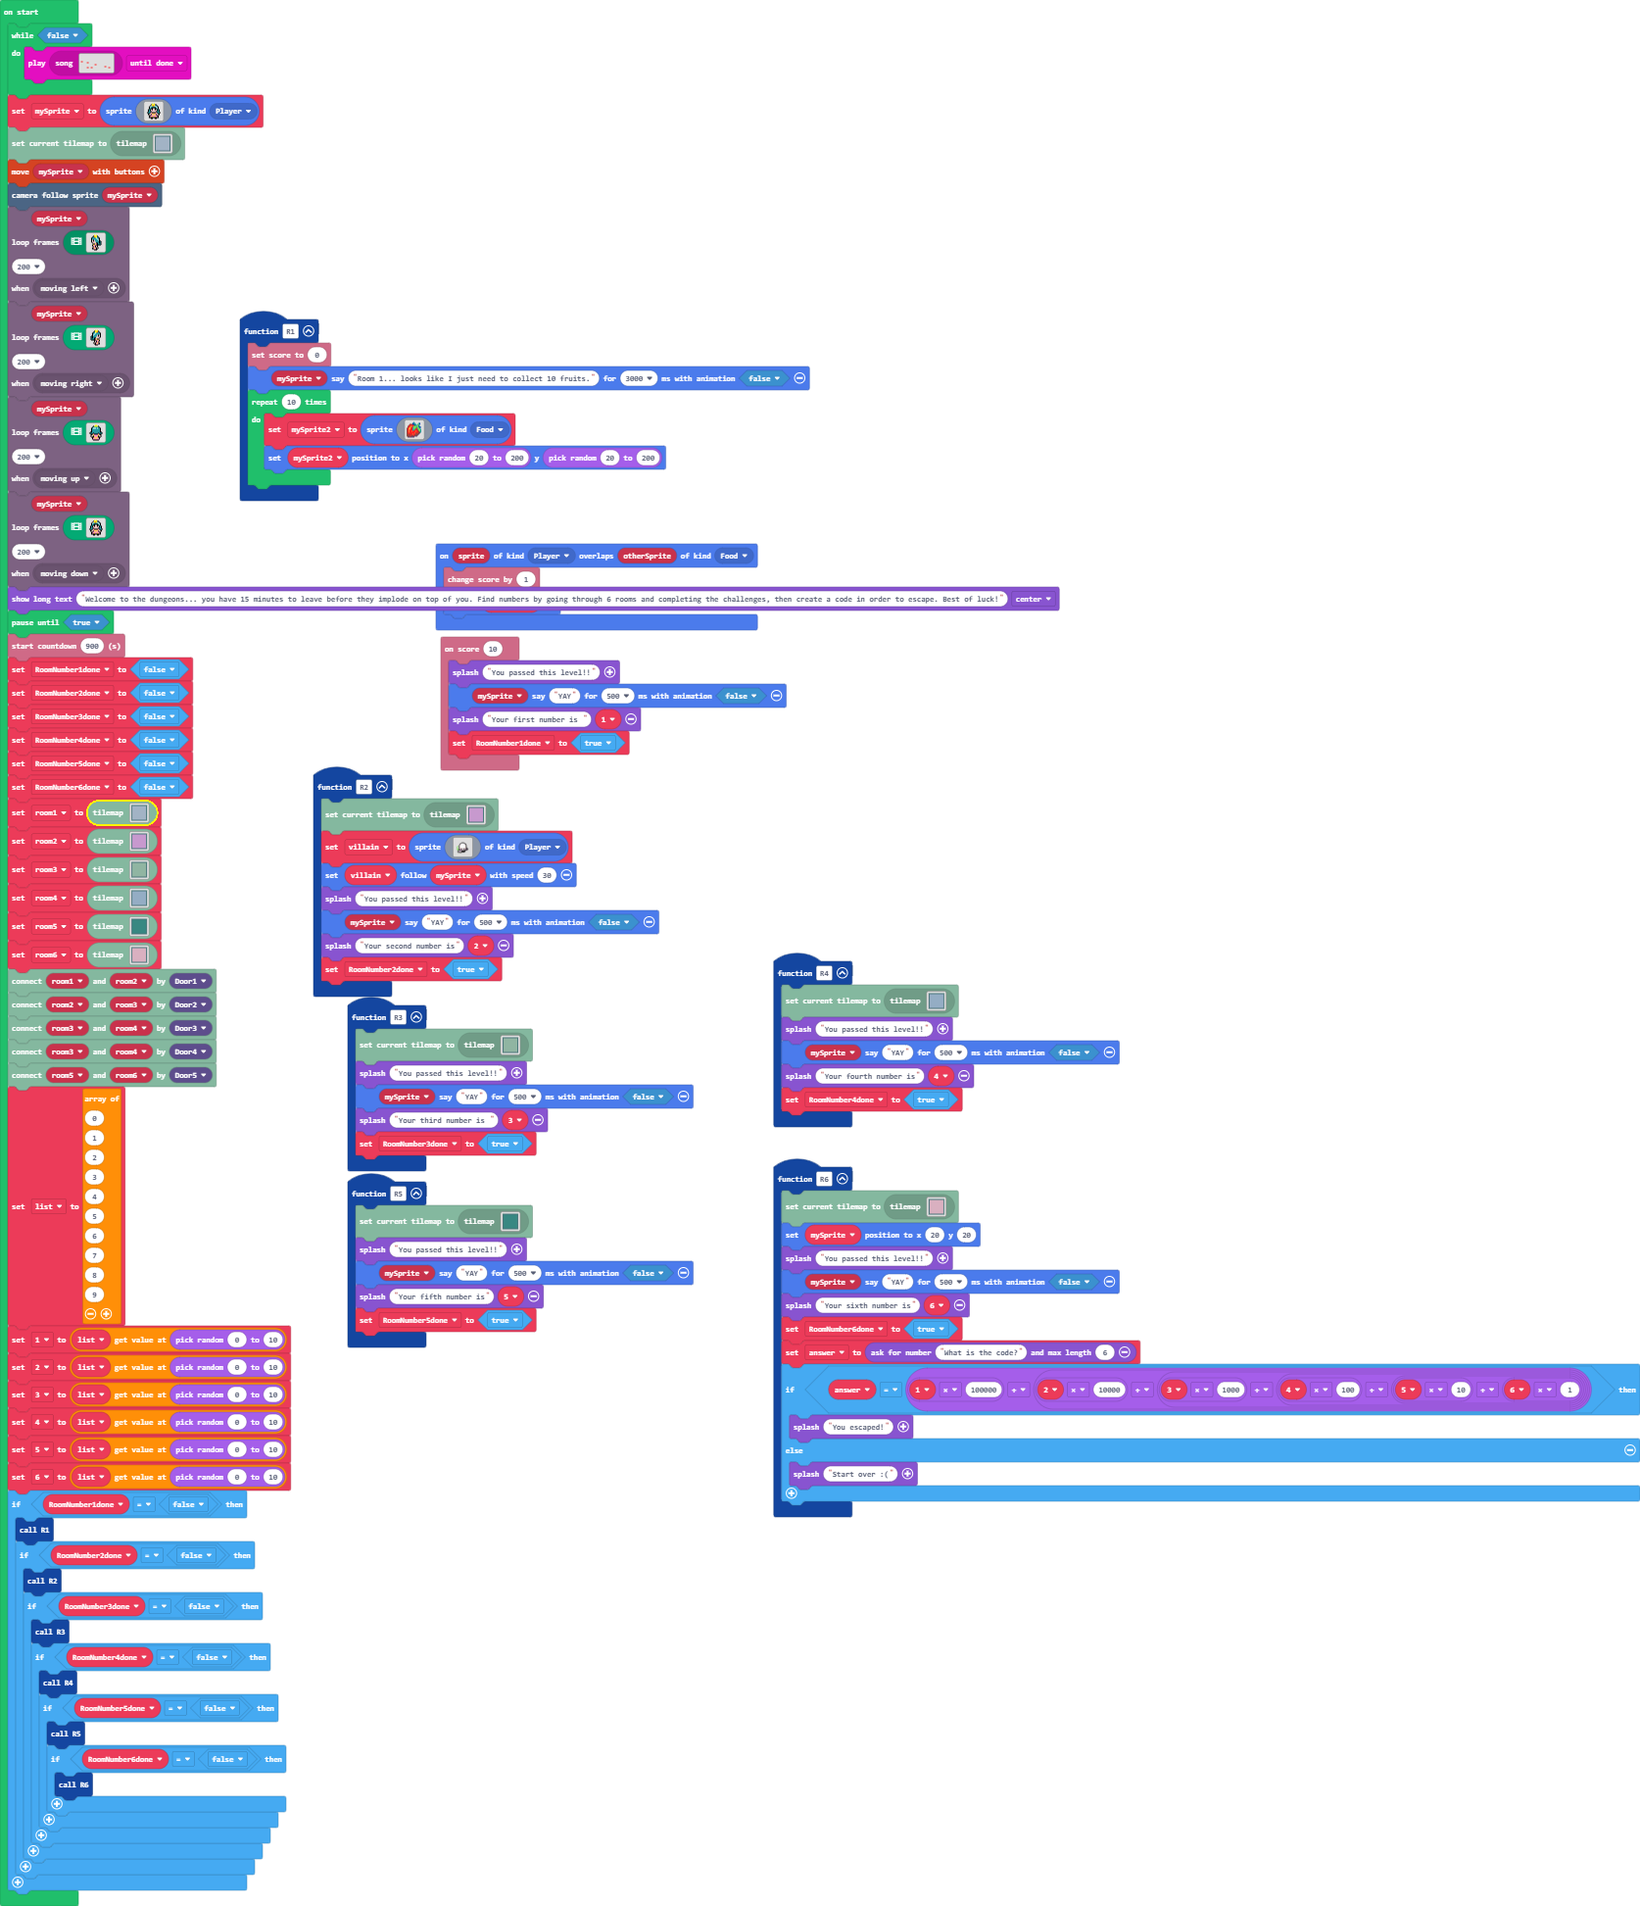
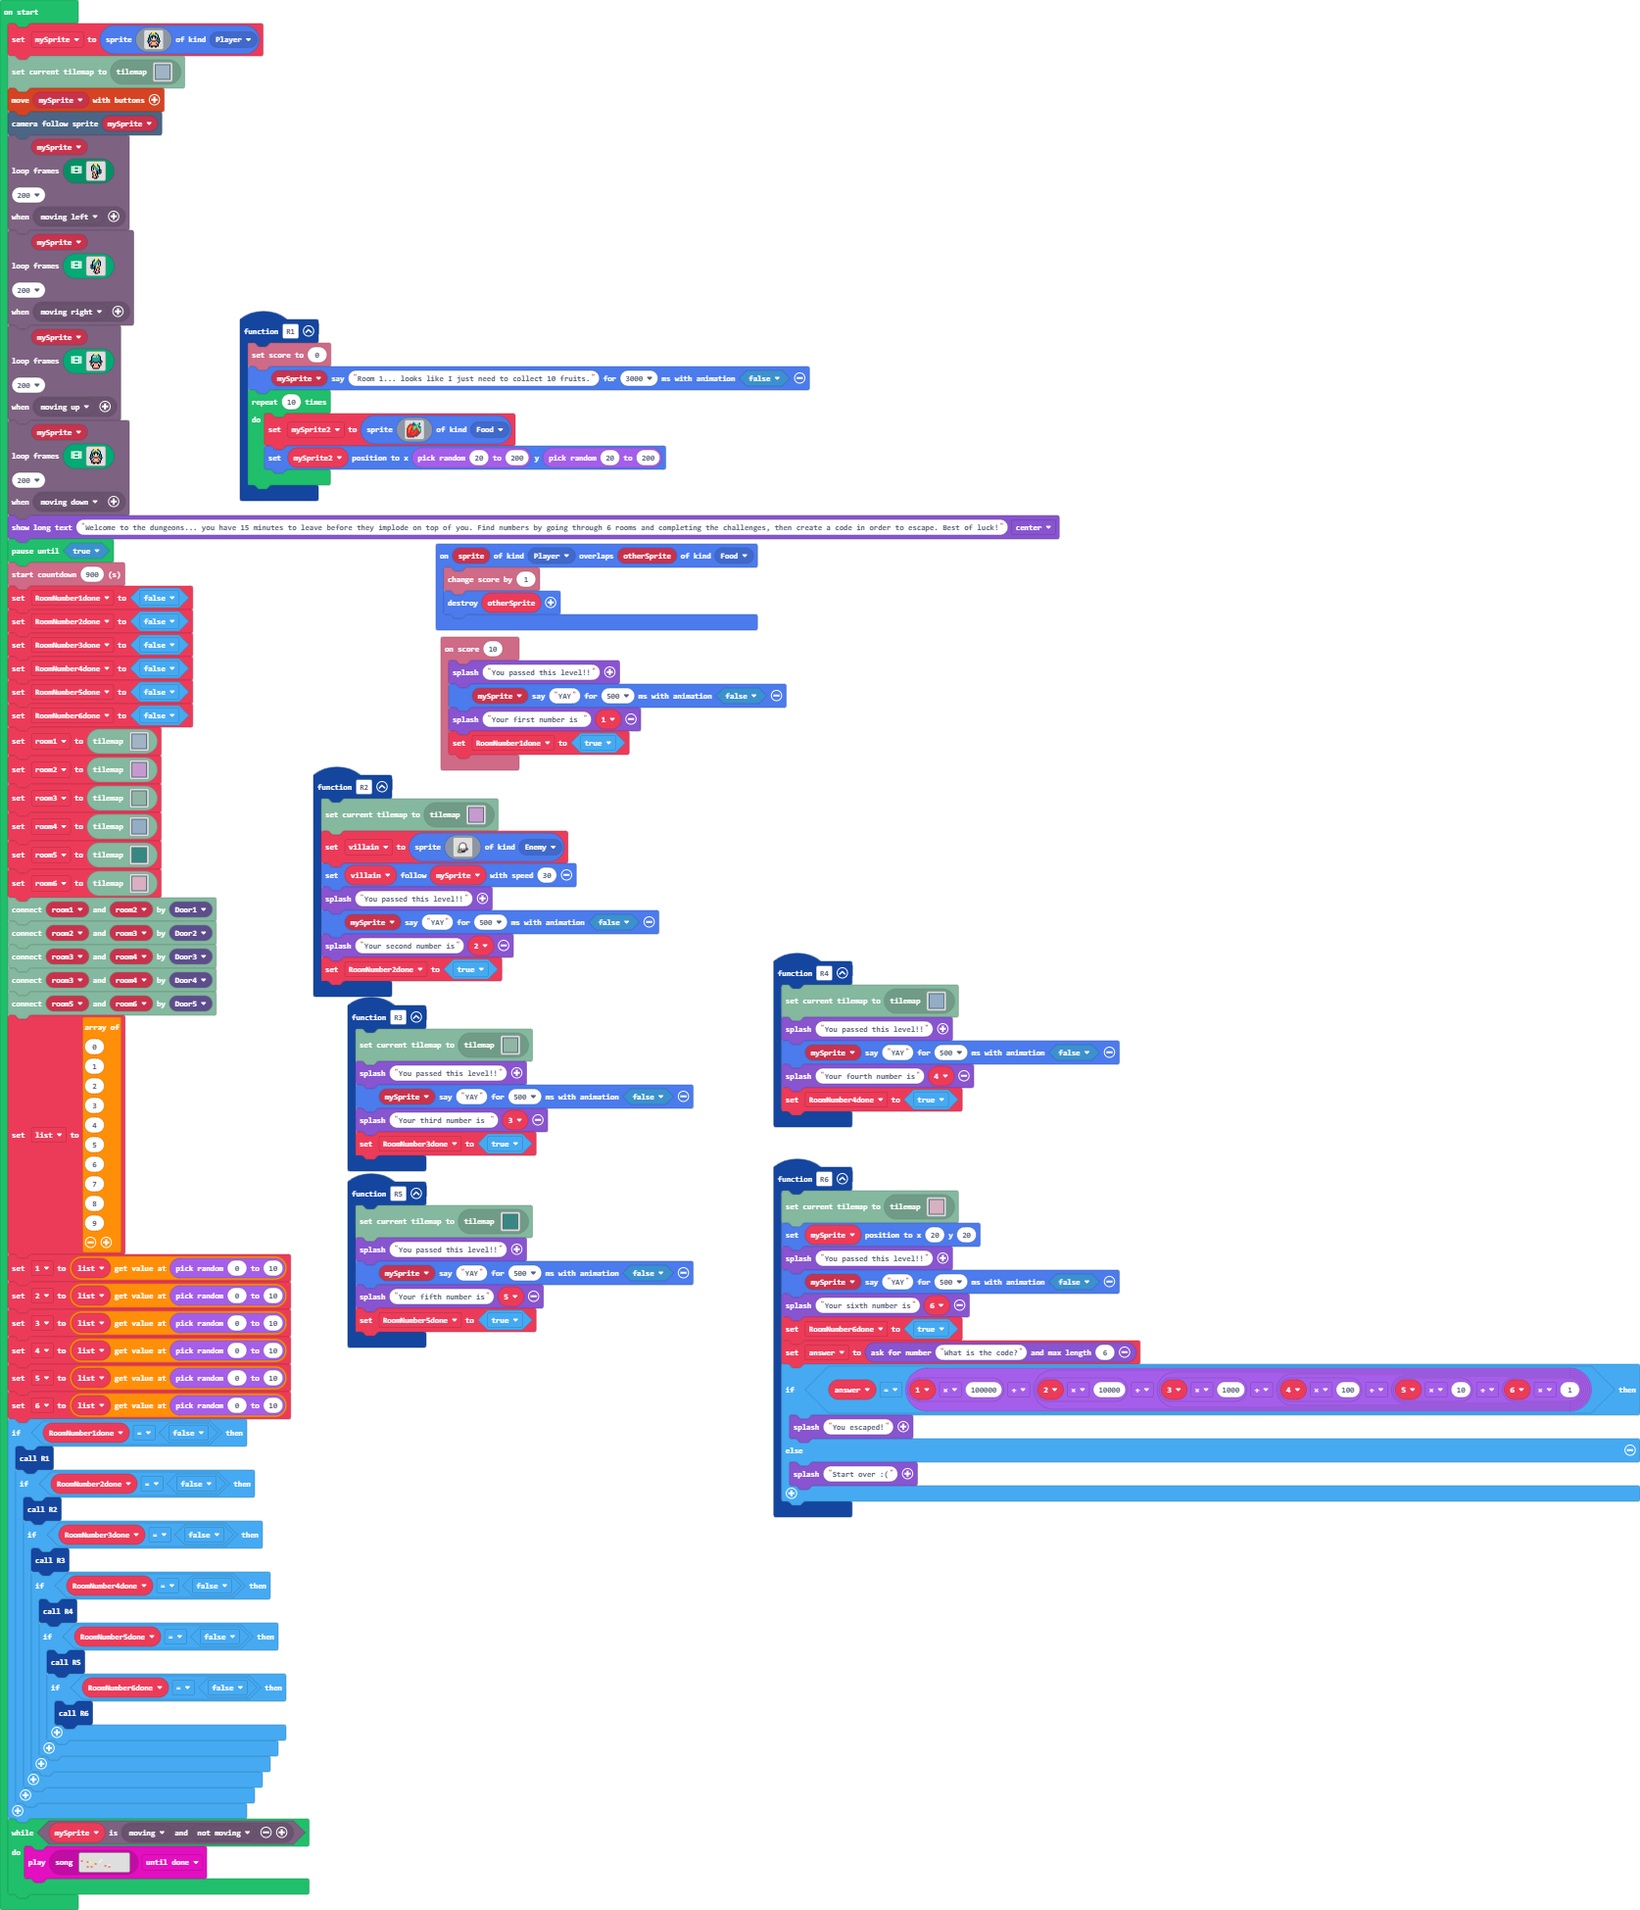
while loop song

Changed region(s): [[0.0, 0.0, 0.6523, 1.0], [0.4659, 0.4936, 1.0, 0.8021]]

diff --git a/tilemap.g.ts b/tilemap.g.ts
@@ -646,6 +646,234 @@ namespace myTiles {
 . . . . . . . . . . . . . . . . 
 . . . . . . . . . . . . . . . . 
 `, [myTiles.transparency16], TileScale.Sixteen);
+            case "level34":
+            case "level34":return tiles.createTilemap(hex`1000100000000000000000000000000000000000000000000000000000000000000000000000000000000000000000000000000000000000000000000000000000000000000000000000000000000000000000000000000000000000000000000000000000000000000000000000000000000000000000000000000000000000000000000000000000000000000000000000000000000000000000000000000000000000000000000000000000000000000000000000000000000000000000000000000000000000000000000000000000000000000000000000000000000000000000000000000000000000000000000000000000000000000000000000000000000000`, img`
+. . . . . . . . . . . . . . . . 
+. . . . . . . . . . . . . . . . 
+. . . . . . . . . . . . . . . . 
+. . . . . . . . . . . . . . . . 
+. . . . . . . . . . . . . . . . 
+. . . . . . . . . . . . . . . . 
+. . . . . . . . . . . . . . . . 
+. . . . . . . . . . . . . . . . 
+. . . . . . . . . . . . . . . . 
+. . . . . . . . . . . . . . . . 
+. . . . . . . . . . . . . . . . 
+. . . . . . . . . . . . . . . . 
+. . . . . . . . . . . . . . . . 
+. . . . . . . . . . . . . . . . 
+. . . . . . . . . . . . . . . . 
+. . . . . . . . . . . . . . . . 
+`, [myTiles.transparency16], TileScale.Sixteen);
+            case "level35":
+            case "level35":return tiles.createTilemap(hex`1000100000000000000000000000000000000000000000000000000000000000000000000000000000000000000000000000000000000000000000000000000000000000000000000000000000000000000000000000000000000000000000000000000000000000000000000000000000000000000000000000000000000000000000000000000000000000000000000000000000000000000000000000000000000000000000000000000000000000000000000000000000000000000000000000000000000000000000000000000000000000000000000000000000000000000000000000000000000000000000000000000000000000000000000000000000000000`, img`
+. . . . . . . . . . . . . . . . 
+. . . . . . . . . . . . . . . . 
+. . . . . . . . . . . . . . . . 
+. . . . . . . . . . . . . . . . 
+. . . . . . . . . . . . . . . . 
+. . . . . . . . . . . . . . . . 
+. . . . . . . . . . . . . . . . 
+. . . . . . . . . . . . . . . . 
+. . . . . . . . . . . . . . . . 
+. . . . . . . . . . . . . . . . 
+. . . . . . . . . . . . . . . . 
+. . . . . . . . . . . . . . . . 
+. . . . . . . . . . . . . . . . 
+. . . . . . . . . . . . . . . . 
+. . . . . . . . . . . . . . . . 
+. . . . . . . . . . . . . . . . 
+`, [myTiles.transparency16], TileScale.Sixteen);
+            case "level36":
+            case "level36":return tiles.createTilemap(hex`1000100000000000000000000000000000000000000000000000000000000000000000000000000000000000000000000000000000000000000000000000000000000000000000000000000000000000000000000000000000000000000000000000000000000000000000000000000000000000000000000000000000000000000000000000000000000000000000000000000000000000000000000000000000000000000000000000000000000000000000000000000000000000000000000000000000000000000000000000000000000000000000000000000000000000000000000000000000000000000000000000000000000000000000000000000000000000`, img`
+. . . . . . . . . . . . . . . . 
+. . . . . . . . . . . . . . . . 
+. . . . . . . . . . . . . . . . 
+. . . . . . . . . . . . . . . . 
+. . . . . . . . . . . . . . . . 
+. . . . . . . . . . . . . . . . 
+. . . . . . . . . . . . . . . . 
+. . . . . . . . . . . . . . . . 
+. . . . . . . . . . . . . . . . 
+. . . . . . . . . . . . . . . . 
+. . . . . . . . . . . . . . . . 
+. . . . . . . . . . . . . . . . 
+. . . . . . . . . . . . . . . . 
+. . . . . . . . . . . . . . . . 
+. . . . . . . . . . . . . . . . 
+. . . . . . . . . . . . . . . . 
+`, [myTiles.transparency16], TileScale.Sixteen);
+            case "level37":
+            case "level37":return tiles.createTilemap(hex`1000100000000000000000000000000000000000000000000000000000000000000000000000000000000000000000000000000000000000000000000000000000000000000000000000000000000000000000000000000000000000000000000000000000000000000000000000000000000000000000000000000000000000000000000000000000000000000000000000000000000000000000000000000000000000000000000000000000000000000000000000000000000000000000000000000000000000000000000000000000000000000000000000000000000000000000000000000000000000000000000000000000000000000000000000000000000000`, img`
+. . . . . . . . . . . . . . . . 
+. . . . . . . . . . . . . . . . 
+. . . . . . . . . . . . . . . . 
+. . . . . . . . . . . . . . . . 
+. . . . . . . . . . . . . . . . 
+. . . . . . . . . . . . . . . . 
+. . . . . . . . . . . . . . . . 
+. . . . . . . . . . . . . . . . 
+. . . . . . . . . . . . . . . . 
+. . . . . . . . . . . . . . . . 
+. . . . . . . . . . . . . . . . 
+. . . . . . . . . . . . . . . . 
+. . . . . . . . . . . . . . . . 
+. . . . . . . . . . . . . . . . 
+. . . . . . . . . . . . . . . . 
+. . . . . . . . . . . . . . . . 
+`, [myTiles.transparency16], TileScale.Sixteen);
+            case "level38":
+            case "level38":return tiles.createTilemap(hex`1000100000000000000000000000000000000000000000000000000000000000000000000000000000000000000000000000000000000000000000000000000000000000000000000000000000000000000000000000000000000000000000000000000000000000000000000000000000000000000000000000000000000000000000000000000000000000000000000000000000000000000000000000000000000000000000000000000000000000000000000000000000000000000000000000000000000000000000000000000000000000000000000000000000000000000000000000000000000000000000000000000000000000000000000000000000000000`, img`
+. . . . . . . . . . . . . . . . 
+. . . . . . . . . . . . . . . . 
+. . . . . . . . . . . . . . . . 
+. . . . . . . . . . . . . . . . 
+. . . . . . . . . . . . . . . . 
+. . . . . . . . . . . . . . . . 
+. . . . . . . . . . . . . . . . 
+. . . . . . . . . . . . . . . . 
+. . . . . . . . . . . . . . . . 
+. . . . . . . . . . . . . . . . 
+. . . . . . . . . . . . . . . . 
+. . . . . . . . . . . . . . . . 
+. . . . . . . . . . . . . . . . 
+. . . . . . . . . . . . . . . . 
+. . . . . . . . . . . . . . . . 
+. . . . . . . . . . . . . . . . 
+`, [myTiles.transparency16], TileScale.Sixteen);
+            case "level39":
+            case "level39":return tiles.createTilemap(hex`1000100000000000000000000000000000000000000000000000000000000000000000000000000000000000000000000000000000000000000000000000000000000000000000000000000000000000000000000000000000000000000000000000000000000000000000000000000000000000000000000000000000000000000000000000000000000000000000000000000000000000000000000000000000000000000000000000000000000000000000000000000000000000000000000000000000000000000000000000000000000000000000000000000000000000000000000000000000000000000000000000000000000000000000000000000000000000`, img`
+. . . . . . . . . . . . . . . . 
+. . . . . . . . . . . . . . . . 
+. . . . . . . . . . . . . . . . 
+. . . . . . . . . . . . . . . . 
+. . . . . . . . . . . . . . . . 
+. . . . . . . . . . . . . . . . 
+. . . . . . . . . . . . . . . . 
+. . . . . . . . . . . . . . . . 
+. . . . . . . . . . . . . . . . 
+. . . . . . . . . . . . . . . . 
+. . . . . . . . . . . . . . . . 
+. . . . . . . . . . . . . . . . 
+. . . . . . . . . . . . . . . . 
+. . . . . . . . . . . . . . . . 
+. . . . . . . . . . . . . . . . 
+. . . . . . . . . . . . . . . . 
+`, [myTiles.transparency16], TileScale.Sixteen);
+            case "level40":
+            case "level40":return tiles.createTilemap(hex`1000100000000000000000000000000000000000000000000000000000000000000000000000000000000000000000000000000000000000000000000000000000000000000000000000000000000000000000000000000000000000000000000000000000000000000000000000000000000000000000000000000000000000000000000000000000000000000000000000000000000000000000000000000000000000000000000000000000000000000000000000000000000000000000000000000000000000000000000000000000000000000000000000000000000000000000000000000000000000000000000000000000000000000000000000000000000000`, img`
+. . . . . . . . . . . . . . . . 
+. . . . . . . . . . . . . . . . 
+. . . . . . . . . . . . . . . . 
+. . . . . . . . . . . . . . . . 
+. . . . . . . . . . . . . . . . 
+. . . . . . . . . . . . . . . . 
+. . . . . . . . . . . . . . . . 
+. . . . . . . . . . . . . . . . 
+. . . . . . . . . . . . . . . . 
+. . . . . . . . . . . . . . . . 
+. . . . . . . . . . . . . . . . 
+. . . . . . . . . . . . . . . . 
+. . . . . . . . . . . . . . . . 
+. . . . . . . . . . . . . . . . 
+. . . . . . . . . . . . . . . . 
+. . . . . . . . . . . . . . . . 
+`, [myTiles.transparency16], TileScale.Sixteen);
+            case "level41":
+            case "level41":return tiles.createTilemap(hex`1000100000000000000000000000000000000000000000000000000000000000000000000000000000000000000000000000000000000000000000000000000000000000000000000000000000000000000000000000000000000000000000000000000000000000000000000000000000000000000000000000000000000000000000000000000000000000000000000000000000000000000000000000000000000000000000000000000000000000000000000000000000000000000000000000000000000000000000000000000000000000000000000000000000000000000000000000000000000000000000000000000000000000000000000000000000000000`, img`
+. . . . . . . . . . . . . . . . 
+. . . . . . . . . . . . . . . . 
+. . . . . . . . . . . . . . . . 
+. . . . . . . . . . . . . . . . 
+. . . . . . . . . . . . . . . . 
+. . . . . . . . . . . . . . . . 
+. . . . . . . . . . . . . . . . 
+. . . . . . . . . . . . . . . . 
+. . . . . . . . . . . . . . . . 
+. . . . . . . . . . . . . . . . 
+. . . . . . . . . . . . . . . . 
+. . . . . . . . . . . . . . . . 
+. . . . . . . . . . . . . . . . 
+. . . . . . . . . . . . . . . . 
+. . . . . . . . . . . . . . . . 
+. . . . . . . . . . . . . . . . 
+`, [myTiles.transparency16], TileScale.Sixteen);
+            case "level42":
+            case "level42":return tiles.createTilemap(hex`1000100000000000000000000000000000000000000000000000000000000000000000000000000000000000000000000000000000000000000000000000000000000000000000000000000000000000000000000000000000000000000000000000000000000000000000000000000000000000000000000000000000000000000000000000000000000000000000000000000000000000000000000000000000000000000000000000000000000000000000000000000000000000000000000000000000000000000000000000000000000000000000000000000000000000000000000000000000000000000000000000000000000000000000000000000000000000`, img`
+. . . . . . . . . . . . . . . . 
+. . . . . . . . . . . . . . . . 
+. . . . . . . . . . . . . . . . 
+. . . . . . . . . . . . . . . . 
+. . . . . . . . . . . . . . . . 
+. . . . . . . . . . . . . . . . 
+. . . . . . . . . . . . . . . . 
+. . . . . . . . . . . . . . . . 
+. . . . . . . . . . . . . . . . 
+. . . . . . . . . . . . . . . . 
+. . . . . . . . . . . . . . . . 
+. . . . . . . . . . . . . . . . 
+. . . . . . . . . . . . . . . . 
+. . . . . . . . . . . . . . . . 
+. . . . . . . . . . . . . . . . 
+. . . . . . . . . . . . . . . . 
+`, [myTiles.transparency16], TileScale.Sixteen);
+            case "level43":
+            case "level43":return tiles.createTilemap(hex`1000100000000000000000000000000000000000000000000000000000000000000000000000000000000000000000000000000000000000000000000000000000000000000000000000000000000000000000000000000000000000000000000000000000000000000000000000000000000000000000000000000000000000000000000000000000000000000000000000000000000000000000000000000000000000000000000000000000000000000000000000000000000000000000000000000000000000000000000000000000000000000000000000000000000000000000000000000000000000000000000000000000000000000000000000000000000000`, img`
+. . . . . . . . . . . . . . . . 
+. . . . . . . . . . . . . . . . 
+. . . . . . . . . . . . . . . . 
+. . . . . . . . . . . . . . . . 
+. . . . . . . . . . . . . . . . 
+. . . . . . . . . . . . . . . . 
+. . . . . . . . . . . . . . . . 
+. . . . . . . . . . . . . . . . 
+. . . . . . . . . . . . . . . . 
+. . . . . . . . . . . . . . . . 
+. . . . . . . . . . . . . . . . 
+. . . . . . . . . . . . . . . . 
+. . . . . . . . . . . . . . . . 
+. . . . . . . . . . . . . . . . 
+. . . . . . . . . . . . . . . . 
+. . . . . . . . . . . . . . . . 
+`, [myTiles.transparency16], TileScale.Sixteen);
+            case "level44":
+            case "level44":return tiles.createTilemap(hex`1000100000000000000000000000000000000000000000000000000000000000000000000000000000000000000000000000000000000000000000000000000000000000000000000000000000000000000000000000000000000000000000000000000000000000000000000000000000000000000000000000000000000000000000000000000000000000000000000000000000000000000000000000000000000000000000000000000000000000000000000000000000000000000000000000000000000000000000000000000000000000000000000000000000000000000000000000000000000000000000000000000000000000000000000000000000000000`, img`
+. . . . . . . . . . . . . . . . 
+. . . . . . . . . . . . . . . . 
+. . . . . . . . . . . . . . . . 
+. . . . . . . . . . . . . . . . 
+. . . . . . . . . . . . . . . . 
+. . . . . . . . . . . . . . . . 
+. . . . . . . . . . . . . . . . 
+. . . . . . . . . . . . . . . . 
+. . . . . . . . . . . . . . . . 
+. . . . . . . . . . . . . . . . 
+. . . . . . . . . . . . . . . . 
+. . . . . . . . . . . . . . . . 
+. . . . . . . . . . . . . . . . 
+. . . . . . . . . . . . . . . . 
+. . . . . . . . . . . . . . . . 
+. . . . . . . . . . . . . . . . 
+`, [myTiles.transparency16], TileScale.Sixteen);
+            case "level45":
+            case "level45":return tiles.createTilemap(hex`1000100000000000000000000000000000000000000000000000000000000000000000000000000000000000000000000000000000000000000000000000000000000000000000000000000000000000000000000000000000000000000000000000000000000000000000000000000000000000000000000000000000000000000000000000000000000000000000000000000000000000000000000000000000000000000000000000000000000000000000000000000000000000000000000000000000000000000000000000000000000000000000000000000000000000000000000000000000000000000000000000000000000000000000000000000000000000`, img`
+. . . . . . . . . . . . . . . . 
+. . . . . . . . . . . . . . . . 
+. . . . . . . . . . . . . . . . 
+. . . . . . . . . . . . . . . . 
+. . . . . . . . . . . . . . . . 
+. . . . . . . . . . . . . . . . 
+. . . . . . . . . . . . . . . . 
+. . . . . . . . . . . . . . . . 
+. . . . . . . . . . . . . . . . 
+. . . . . . . . . . . . . . . . 
+. . . . . . . . . . . . . . . . 
+. . . . . . . . . . . . . . . . 
+. . . . . . . . . . . . . . . . 
+. . . . . . . . . . . . . . . . 
+. . . . . . . . . . . . . . . . 
+. . . . . . . . . . . . . . . . 
+`, [myTiles.transparency16], TileScale.Sixteen);
         }
         return null;
     })

diff --git a/main.ts b/main.ts
@@ -75,7 +75,7 @@ function R2 () {
         ........................
         ........................
         ........................
-        `, SpriteKind.Player)
+        `, SpriteKind.Enemy)
     villain.follow(mySprite, 30)
     game.splash("You passed this level!!")
     mySprite.sayText("YAY", 500, false)
@@ -123,9 +123,6 @@ let _4 = 0
 let _3 = 0
 let _2 = 0
 let _1 = 0
-while (false) {
[1 lines of base64/hex data omitted]
-}
 mySprite = sprites.create(img`
     . . . . . . 5 . 5 . . . . . . . 
     . . . . . f 5 5 5 f f . . . . . 
@@ -430,4 +427,7 @@ if (RoomNumber1done == false) {
             }
         }
     }
+}
+while (characterAnimations.matchesRule(mySprite, characterAnimations.rule(Predicate.Moving, Predicate.NotMoving))) {
[1 lines of base64/hex data omitted]
 }
